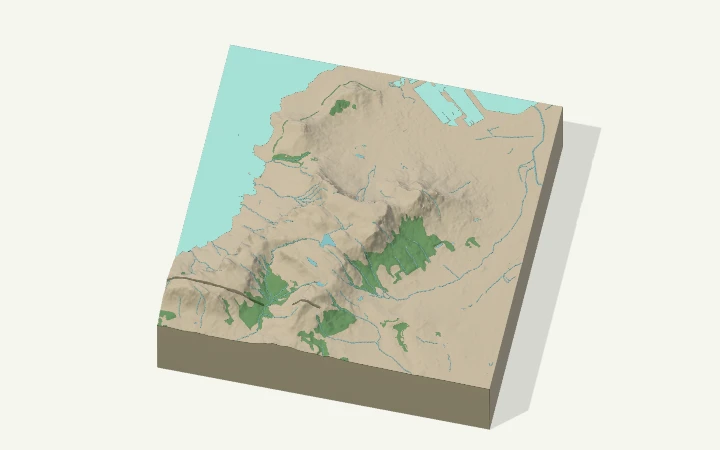
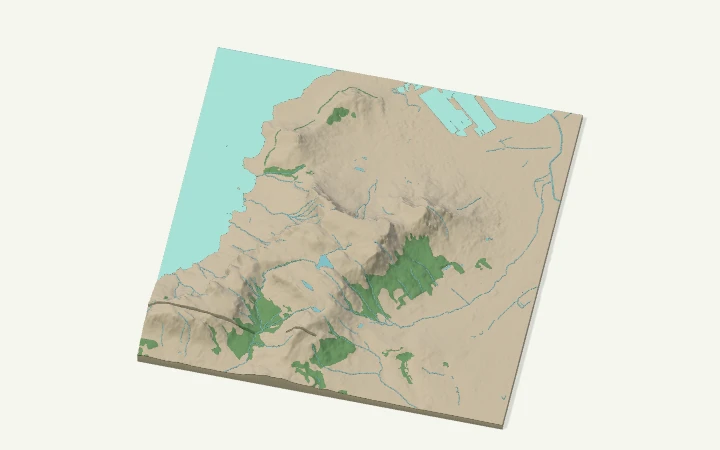
Normalitza la base del relleu costaner

Changed region(s): [[0.1833, 0.0933, 0.8556, 0.9644], [0.6417, 0.6533, 0.6722, 0.6844], [0.3972, 0.1867, 0.4278, 0.2178]]

diff --git a/src/main.js b/src/main.js
@@ -1347,7 +1347,7 @@ $('#save-project').onsubmit=event=>{
     $('#project-feedback').textContent='Projecte desat en aquest navegador.';
   }catch(error){$('#project-feedback').textContent=error.message;}
 };
-$('#release-list').innerHTML=[['0.22.40','La pantalla inicial adapta la taula, el selector i el carrusel a l’espai del panell.'],['0.22.39','Relleu pur fins a 1:500.000 també en formats quadrats i rectangulars.'],['0.22.38','Més espai entre el selector de mides i el carrusel a la pantalla inicial.'],['0.22.37','Amplada i fondària editables directament a La teva maqueta, amb els límits de mida a la vista.'],['0.22.36','El panell dret de les maquetes del catàleg mostra el lloc, el tipus i la descripció de la fitxa.'],['0.22.35','Exageració vertical, rius i vegetació de Relleu pur s’apliquen sobre el retall carregat.'],['0.22.34','Taller mòbil amb mides i exemples tàctils, visor en directe i panells inferiors d’ajustos i exportació.'],['0.22.33','El carrusel recull els 28 retalls del catàleg amb imatges estàtiques i generació directa. El motor recupera les vies ordinàries si falla la integració dels perfils suaus.'],['0.22.32','Textura forestal més discreta i regulable, vores de tessel·la corregides i cobertes obertes quan hi ha dades.'],['0.22.31','Barcelona, Girona i Cardona s’afegeixen al carrusel com a exemples de Model complet amb imatges estàtiques i generació automàtica.'],['0.22.30','Fitxes flotants, controls laterals i un retall més ampli del Cap de Creus.'],['0.22.29','Montserrat, Sant Maurici i els volcans del Croscat i Santa Margarida al carrusel.'],['0.22.28','Vegetació contínua i editable sobre el bosc en Relleu pur.'],['0.22.26','Controls de vegetació i pinzell de capçades o textura en Relleu pur.'],['0.22.25','Carrusel lent en bucle, fitxes ampliables i generació directa dels exemples.'],['0.22.24','Control de gir separat, amb indicació visible d’activat o desactivat.'],['0.22.23','Carrusel inicial amb tres exemples de Relleu pur i imatges estàtiques.'],['0.22.22','Tamariu com a punt de partida, gir suau al visor i cota del mar corregida amb el MET5.'],['0.22.21','Tria d’un a sis filaments i assignació per capa en Relleu pur.'],['0.22.20','Mars i oceans cartografiats, plans i blaus fins a la base, en Relleu pur.'],['0.22.19','Peces panoràmiques a escala sobre la taula, en dues files a partir de 61 cm.'],['0.22.18','Format panoràmic en Relleu pur i previsualització del terreny per peces.'],['0.22.17','Canvi de mida al mateix projecte, conservant el territori i els ajustos.'],['0.22.16','Retalls a la mateixa escala amb ombrejat suau i una sola mida rectangular predefinida.'],['0.22.15','Previsualització de mides i talls sobre una taula i enllaç al changelog a la capçalera.'],['0.22.14','Un sol 3MF amb diverses plaques de Bambu i ZIP de peces opcional.'],['0.22.13','Filament per peça al 3MF de Bambu Studio.'],['0.22.12','Senders més estrets i aigua continental de superfície.'],['0.22.11','Més trams amb paviment independent i secció plana fins a la vora.'],['0.22.10','Paviment independent per defecte i trams recuperats entre cruïlles.'],['0.22.9','Primera prova de paviment nou en retalls reals.'],['0.22.8','Cupó de 120 × 120 mm amb vies sinuoses, cruïlla i pont.'],['0.22.7','Cupó de túnel amb dues boques i rasant compartida amb els accessos.'],['0.22.6','Cupó de pont amb dos enllaços sense graó i una via inferior.'],['0.22.5','Rasant contínua a la corba del cupó de paviment.'],['0.22.4','Cupó de paviment amb corba i cruïlla en T sense graó.'],['0.22.3','Cupó de paviment amb secció plana, excavació i reblert.'],['0.22.2','Perfils de vies recuperats quan falten cotes fora de la maqueta.'],['0.22.1','Perfils de calçada sobre túnels verificats i amplada estimada de les autopistes de sentit únic.'],['0.22.0','Versió de consolidació dels perfils viaris, ponts i túnels.'],['0.21.9','Signatura d’ortogra.fi al peu de pàgina.'],['0.21.8','Recuperació de ponts amb fragments solapats entre tessel·les.'],['0.21.7','Recuperació de túnels estimats amb poca coberta.'],['0.21.6','Transicions de vies amb més traçat disponible quan l’enllaç inicial falla.'],['0.21.5','Mides de 10 a 50 cm i guies discontínues de tall sobre el relleu.'],['0.21.4','Unió de paviment més robusta per a vies principals i ferrocarrils.'],['0.21.3','Perfils suaus amb MET5 acotats al retall i recuperació selectiva d’unions.'],['0.21.2','Corregida la càrrega de relleu amb el MET5.'],['0.21.1','MET5 de l’ICGC com a font preferent quan cobreix el retall.'],['0.21.0','Auditoria d’exportacions de control per altura i suavitzat intermedi de vies principals i ferrocarrils.'],['0.20.1','Rasants ferroviàries suavitzades segons l’escala i accessos amb canvis de pendent més progressius.'],['0.20.0','Galeria local per desar i recuperar els ajustos i traços d’una maqueta.'],['0.19.25','Capçades còniques més altes i prova conjunta dels Rasos de Peguera i la Gallina Pelada.'],['0.19.24','Capçades automàtiques d’alta muntanya al Model complet i densitat segons la cota a Relleu pur.'],['0.19.23','Capçades arrodonides en retalls baixos i progressivament còniques en retalls d’alta muntanya.'],['0.19.22','Boscos cartografiats i capçades a escala en Relleu pur.'],['0.19.21','Aigua cartografiada fora de l’Aneto en Relleu pur i controls d’orientació del mapa ajustats.'],['0.19.20','Selector segmentat de mode i rius i rierols amb amplada mínima configurable.'],['0.19.19','Modes Paisatge complet i Relleu pur a Territori, llacs plans i més detall al Paisatge complet.'],['0.19.18','Contorns de neu i roca interpolats, cobertura de l’Aneto més fina i més resolució amb detall Equilibrat i Alt.'],['0.19.17','Relleu pur amb una malla més fina, tessel·les d’elevació més detallades i talls de peces sobre una malla comuna.'],['0.19.16','Mode Relleu pur fins a 1:100.000, amb mostra de l’Aneto i cobertura de sòl nu i neu o gel. Perfils suaus activats per defecte.'],['0.19.15','Unions viàries més ràpides, amplades segons escala i transicions més suaus als accessos.'],['0.19.14','Informe JSON de temps de generació amb retall, ajustos i durada de cada fase.'],['0.19.13','Guies de tall sobre el relleu i descàrrega de la maqueta visible quan el mapa té canvis pendents.'],['0.19.12','Progrés per fases i previsualització de relleu, vies, edificis i vegetació mentre es genera la maqueta.'],['0.19.11','Un enllaç, túnel o edifici amb geometria defectuosa pot quedar omès amb un avís mentre es genera la resta de la maqueta.'],['0.19.10','Els taulers procedimentals recuperen la continuïtat entre tessel·les i les cotes dels estreps fora del retall.'],['0.19.9','Transicions entre perfils suaus i vies sobre el terreny. Segon retall ferroviari verificat.'],['0.19.8','Perfils experimentals de vies principals i ferrocarrils. Projecte nou sobre Territori i compàs al mapa.'],['0.19.7','Catastre per blocs, amb vista provisional i avisos dels elements amb dades contradictòries.'],['0.19.6','Mides proporcionals al centre, generació des de Territori i límit d’escala d’1:20.000.'],['0.19.5','Inici guiat, exemples a Territori i escala sincronitzada amb el mapa. El retall es gira des de la cantonada.'],['0.19.4','Els ajustos de vies reutilitzen el terreny i els edificis. Es conserven els traços del pinzell i la vista.'],['0.19.3','Ajustos de vies automàtics, descàrrega ancorada amb selector de format i ferrocarrils arran de carretera per defecte.'],['0.19.2','Sis passos amb accions al costat del títol. Els traços del pinzell es conserven en canviar de retall durant la sessió. Avís quan falta espai per enllaçar un pont al límit de la maqueta.'],['0.19.1','Corregits el graó de les boques girades i els plecs dels enllaços en revolts. Controls 3MF nous i proposta navegable de flux per etapes RO-053, pendent de revisió abans d’integrar-la.'],['0.19.0','Continuïtat i amplada de la calçada revisades als enllaços amb ponts i túnels. Marc exterior retirat del menú i ajornat per a un desenvolupament posterior.'],['0.18.2','Primera optimització de les vies principals: màscares de pilars calculades només quan calen i reutilitzades. El control de 3 km passa de 189,3 a 56,6 s amb els mateixos 14 perfils. Prototip encara desactivat; controls 3MF disponibles al repositori i cas de detall baix pendent.'],['0.18.1','Túnels activats per defecte, sostre parabòlic i paviment de camí. Envolupant de vies principals preparada com a prototip, pendent d’optimitzar abans d’activar-la.'],['0.18.0','Ferrocarrils amb material propi i realç de +0,5 o +1 mm sobre els camins. Millora dels portals de túnels estimats. Nova font OSM de cobertes i parts originals, amb formes paramètriques quan hi ha dades i preservació del mode limitat pla.'],['0.17.0','Pilars adaptats a l’escala, suports auxiliars i avisos de llums. Túnels estimats amb obertures reals, en una opció experimental desactivada per defecte. Exemples automàtics, marc negre i plaques ajornades.'],['0.16.0','Ponts procedimentals a partir de la cartografia i el relleu, amb pilars i connexions. Perfils estimats entre extrems, diferenciats de les dades específiques de Rajadell. El viaducte es conserva en moure, ampliar o girar el retall.'],['0.15.1','Rajadell es conserva en retalls ampliats o desplaçats: els detalls del pont es carreguen per ubicació, també fora del botó d’exemple. Memòria cau acotada i reintent de lectures fallides. Generalització procedimental en curs.'],['0.15.0','Pilars simplificats que eviten camins i edificis, i enllaços suaus del viaducte amb la carretera. Conjunt unit abans de mostrar-lo i exportar-lo. Realç opcional dels camins de 0,5 o 1 mm de maqueta. Suports i enllaços estimats, pendents de laminat.'],['0.14.0','Primer viaducte amb superfície 3D de l’ICGC a la mostra de Manresa, separada del terreny i conservada al 3MF. Gruix simplificat, sense pilars mesurats. Llibre d’estil per a contribucions i tasques delegades. Túnel pendent de dades suficients.'],['0.13.1','Base corregida: la cota més baixa del relleu queda a 5 mm. Es conserven el desnivell, l’exageració i una referència vertical comuna a totes les capes. A la costa, el mar també queda a 5 mm.'],['0.13.0','Catastre amb consultes per quadrants i recuperació de la font anterior en fallar. Sidebars homogenis, marc coherent amb la seva exportació i sense canvis de zoom. Viaducte de l’Eix Diagonal com a mostra inicial, Tamariu al catàleg. Fletxa del nord retirada i rosa ajornada.'],['0.12.0','Vista de presentació amb taula i llum, render a demanda i retorn al taller. Fonts remotes amb resum clar i fitxers propis dins d’opcions avançades. Proves de sòlids per preparar infraestructures; ponts i coves reals pendents.'],['0.11.0','Catastre buit vàlid, pinzell amb cobertura per gest i retorn a navegació, edificis automàtics i complements independents: marc, placa educativa i fletxa del nord. Cobertes reals en estudi.'],['0.10.0','Catastre amb espera i reintent fitats, errors entenedors i model conservat en fallar. Preparació del sistema d’idiomes, només amb català disponible. Propostes de marc imprimible, etiquetes, rosa dels vents i escena realista.'],['0.9.0','Pinzell aleatori, fonts d’edificis explícites i parts del Catastre. Edificis actualitzats sense reconstruir terreny, i primeres cobertes amb atributs de la font.'],['0.8.0','Vegetació repartida per tota la zona verda, pinzell amb prioritat al límit, densitat per traç i exportació sense selectors de broquet ni tipus de filament. Estudi de parts d’edificis, cobertes, ponts i túnels.'],['0.7.0','Sidebars reorganitzats, escala en un sol camp, orientació al mapa, arbres proporcionats a l’escala i límits de càrrega coherents. Historial de tasques validades separat.'],['0.6.0','Menús sempre visibles amb scroll intern, estadístiques al sidebar, V4V i favicon, transicions, marc visual, retall girat, opcions de filament/broquet i importació local GeoTIFF/GeoJSON.'],['0.5.0','Apartats replegables, controls dins del preview i selecció per escala horitzontal fixa. Diagnòstic dels blocs d’edificis de Tamariu.'],['0.4.2','Lectura numèrica directa del relleu WebP/PNG, sense canvas, i diagnòstics de les tessel·les per investigar els pics intermitents.'],['0.4.1','Cobertes horitzontals: el límit d’altura es mesura sobre el punt més alt del terreny dins de la petjada.'],['0.4.0','Camins amb unions arrodonides, edificis limitats a 5 m per defecte o sense volum, i pinzell amb indicador de treball i un càlcul per traç.'],['0.3.0','Mapa i cerca de llocs, layout d’escriptori estable, 1–8 materials, vegetació editable i exportació en peces.'],['0.2.0','Edificis ICGC, relleu corregit, capçades variades i exportació per a Bambu Studio.'],['0.1.0','Primera maqueta de Tamariu generada al navegador amb costa vectorial i exportació 3D.']].map(([v,text])=>`<article class="release-entry"><div><strong>v${v}</strong><time>${['0.22.40','0.22.39','0.22.38','0.22.37','0.22.36','0.22.35','0.22.34','0.22.33'].includes(v)?'05/11/2026':['0.22.32','0.22.31','0.22.30','0.22.29','0.22.28','0.22.26','0.22.25','0.22.24','0.22.23','0.22.22','0.22.21','0.22.20','0.22.19','0.22.18','0.22.17','0.22.16','0.22.15','0.22.14','0.22.13','0.22.12','0.22.11','0.22.10','0.22.9','0.22.8','0.22.7','0.22.6','0.22.5','0.22.4','0.22.3','0.22.2','0.22.1','0.22.0','0.21.9','0.21.8','0.21.7','0.21.6','0.21.5'].includes(v)?'04/11/2026':['0.21.4','0.21.3','0.21.2','0.21.1','0.21.0','0.20.1','0.20.0','0.19.25','0.19.24','0.19.23','0.19.22','0.19.21','0.19.20','0.19.19','0.19.18','0.19.17','0.19.16','0.19.15','0.19.14','0.19.13','0.19.12','0.19.11','0.19.10','0.19.9','0.19.8','0.19.7','0.19.6','0.19.5','0.19.4','0.19.3','0.19.2'].includes(v)?'03/11/2026':['0.19.1','0.19.0','0.18.2','0.18.1','0.18.0','0.17.0','0.16.0','0.15.1','0.15.0','0.14.0','0.13.1','0.13.0','0.12.0','0.11.0'].includes(v)?'02/11/2026':v==='0.1.0'?'31/10/2026':'01/11/2026'}</time></div><p>${text}</p></article>`).join('');
+$('#release-list').innerHTML=[['0.22.41','El mar i el punt més baix dels retalls interiors queden a 5 mm de la base en Relleu pur.'],['0.22.40','La pantalla inicial adapta la taula, el selector i el carrusel a l’espai del panell.'],['0.22.39','Relleu pur fins a 1:500.000 també en formats quadrats i rectangulars.'],['0.22.38','Més espai entre el selector de mides i el carrusel a la pantalla inicial.'],['0.22.37','Amplada i fondària editables directament a La teva maqueta, amb els límits de mida a la vista.'],['0.22.36','El panell dret de les maquetes del catàleg mostra el lloc, el tipus i la descripció de la fitxa.'],['0.22.35','Exageració vertical, rius i vegetació de Relleu pur s’apliquen sobre el retall carregat.'],['0.22.34','Taller mòbil amb mides i exemples tàctils, visor en directe i panells inferiors d’ajustos i exportació.'],['0.22.33','El carrusel recull els 28 retalls del catàleg amb imatges estàtiques i generació directa. El motor recupera les vies ordinàries si falla la integració dels perfils suaus.'],['0.22.32','Textura forestal més discreta i regulable, vores de tessel·la corregides i cobertes obertes quan hi ha dades.'],['0.22.31','Barcelona, Girona i Cardona s’afegeixen al carrusel com a exemples de Model complet amb imatges estàtiques i generació automàtica.'],['0.22.30','Fitxes flotants, controls laterals i un retall més ampli del Cap de Creus.'],['0.22.29','Montserrat, Sant Maurici i els volcans del Croscat i Santa Margarida al carrusel.'],['0.22.28','Vegetació contínua i editable sobre el bosc en Relleu pur.'],['0.22.26','Controls de vegetació i pinzell de capçades o textura en Relleu pur.'],['0.22.25','Carrusel lent en bucle, fitxes ampliables i generació directa dels exemples.'],['0.22.24','Control de gir separat, amb indicació visible d’activat o desactivat.'],['0.22.23','Carrusel inicial amb tres exemples de Relleu pur i imatges estàtiques.'],['0.22.22','Tamariu com a punt de partida, gir suau al visor i cota del mar corregida amb el MET5.'],['0.22.21','Tria d’un a sis filaments i assignació per capa en Relleu pur.'],['0.22.20','Mars i oceans cartografiats, plans i blaus fins a la base, en Relleu pur.'],['0.22.19','Peces panoràmiques a escala sobre la taula, en dues files a partir de 61 cm.'],['0.22.18','Format panoràmic en Relleu pur i previsualització del terreny per peces.'],['0.22.17','Canvi de mida al mateix projecte, conservant el territori i els ajustos.'],['0.22.16','Retalls a la mateixa escala amb ombrejat suau i una sola mida rectangular predefinida.'],['0.22.15','Previsualització de mides i talls sobre una taula i enllaç al changelog a la capçalera.'],['0.22.14','Un sol 3MF amb diverses plaques de Bambu i ZIP de peces opcional.'],['0.22.13','Filament per peça al 3MF de Bambu Studio.'],['0.22.12','Senders més estrets i aigua continental de superfície.'],['0.22.11','Més trams amb paviment independent i secció plana fins a la vora.'],['0.22.10','Paviment independent per defecte i trams recuperats entre cruïlles.'],['0.22.9','Primera prova de paviment nou en retalls reals.'],['0.22.8','Cupó de 120 × 120 mm amb vies sinuoses, cruïlla i pont.'],['0.22.7','Cupó de túnel amb dues boques i rasant compartida amb els accessos.'],['0.22.6','Cupó de pont amb dos enllaços sense graó i una via inferior.'],['0.22.5','Rasant contínua a la corba del cupó de paviment.'],['0.22.4','Cupó de paviment amb corba i cruïlla en T sense graó.'],['0.22.3','Cupó de paviment amb secció plana, excavació i reblert.'],['0.22.2','Perfils de vies recuperats quan falten cotes fora de la maqueta.'],['0.22.1','Perfils de calçada sobre túnels verificats i amplada estimada de les autopistes de sentit únic.'],['0.22.0','Versió de consolidació dels perfils viaris, ponts i túnels.'],['0.21.9','Signatura d’ortogra.fi al peu de pàgina.'],['0.21.8','Recuperació de ponts amb fragments solapats entre tessel·les.'],['0.21.7','Recuperació de túnels estimats amb poca coberta.'],['0.21.6','Transicions de vies amb més traçat disponible quan l’enllaç inicial falla.'],['0.21.5','Mides de 10 a 50 cm i guies discontínues de tall sobre el relleu.'],['0.21.4','Unió de paviment més robusta per a vies principals i ferrocarrils.'],['0.21.3','Perfils suaus amb MET5 acotats al retall i recuperació selectiva d’unions.'],['0.21.2','Corregida la càrrega de relleu amb el MET5.'],['0.21.1','MET5 de l’ICGC com a font preferent quan cobreix el retall.'],['0.21.0','Auditoria d’exportacions de control per altura i suavitzat intermedi de vies principals i ferrocarrils.'],['0.20.1','Rasants ferroviàries suavitzades segons l’escala i accessos amb canvis de pendent més progressius.'],['0.20.0','Galeria local per desar i recuperar els ajustos i traços d’una maqueta.'],['0.19.25','Capçades còniques més altes i prova conjunta dels Rasos de Peguera i la Gallina Pelada.'],['0.19.24','Capçades automàtiques d’alta muntanya al Model complet i densitat segons la cota a Relleu pur.'],['0.19.23','Capçades arrodonides en retalls baixos i progressivament còniques en retalls d’alta muntanya.'],['0.19.22','Boscos cartografiats i capçades a escala en Relleu pur.'],['0.19.21','Aigua cartografiada fora de l’Aneto en Relleu pur i controls d’orientació del mapa ajustats.'],['0.19.20','Selector segmentat de mode i rius i rierols amb amplada mínima configurable.'],['0.19.19','Modes Paisatge complet i Relleu pur a Territori, llacs plans i més detall al Paisatge complet.'],['0.19.18','Contorns de neu i roca interpolats, cobertura de l’Aneto més fina i més resolució amb detall Equilibrat i Alt.'],['0.19.17','Relleu pur amb una malla més fina, tessel·les d’elevació més detallades i talls de peces sobre una malla comuna.'],['0.19.16','Mode Relleu pur fins a 1:100.000, amb mostra de l’Aneto i cobertura de sòl nu i neu o gel. Perfils suaus activats per defecte.'],['0.19.15','Unions viàries més ràpides, amplades segons escala i transicions més suaus als accessos.'],['0.19.14','Informe JSON de temps de generació amb retall, ajustos i durada de cada fase.'],['0.19.13','Guies de tall sobre el relleu i descàrrega de la maqueta visible quan el mapa té canvis pendents.'],['0.19.12','Progrés per fases i previsualització de relleu, vies, edificis i vegetació mentre es genera la maqueta.'],['0.19.11','Un enllaç, túnel o edifici amb geometria defectuosa pot quedar omès amb un avís mentre es genera la resta de la maqueta.'],['0.19.10','Els taulers procedimentals recuperen la continuïtat entre tessel·les i les cotes dels estreps fora del retall.'],['0.19.9','Transicions entre perfils suaus i vies sobre el terreny. Segon retall ferroviari verificat.'],['0.19.8','Perfils experimentals de vies principals i ferrocarrils. Projecte nou sobre Territori i compàs al mapa.'],['0.19.7','Catastre per blocs, amb vista provisional i avisos dels elements amb dades contradictòries.'],['0.19.6','Mides proporcionals al centre, generació des de Territori i límit d’escala d’1:20.000.'],['0.19.5','Inici guiat, exemples a Territori i escala sincronitzada amb el mapa. El retall es gira des de la cantonada.'],['0.19.4','Els ajustos de vies reutilitzen el terreny i els edificis. Es conserven els traços del pinzell i la vista.'],['0.19.3','Ajustos de vies automàtics, descàrrega ancorada amb selector de format i ferrocarrils arran de carretera per defecte.'],['0.19.2','Sis passos amb accions al costat del títol. Els traços del pinzell es conserven en canviar de retall durant la sessió. Avís quan falta espai per enllaçar un pont al límit de la maqueta.'],['0.19.1','Corregits el graó de les boques girades i els plecs dels enllaços en revolts. Controls 3MF nous i proposta navegable de flux per etapes RO-053, pendent de revisió abans d’integrar-la.'],['0.19.0','Continuïtat i amplada de la calçada revisades als enllaços amb ponts i túnels. Marc exterior retirat del menú i ajornat per a un desenvolupament posterior.'],['0.18.2','Primera optimització de les vies principals: màscares de pilars calculades només quan calen i reutilitzades. El control de 3 km passa de 189,3 a 56,6 s amb els mateixos 14 perfils. Prototip encara desactivat; controls 3MF disponibles al repositori i cas de detall baix pendent.'],['0.18.1','Túnels activats per defecte, sostre parabòlic i paviment de camí. Envolupant de vies principals preparada com a prototip, pendent d’optimitzar abans d’activar-la.'],['0.18.0','Ferrocarrils amb material propi i realç de +0,5 o +1 mm sobre els camins. Millora dels portals de túnels estimats. Nova font OSM de cobertes i parts originals, amb formes paramètriques quan hi ha dades i preservació del mode limitat pla.'],['0.17.0','Pilars adaptats a l’escala, suports auxiliars i avisos de llums. Túnels estimats amb obertures reals, en una opció experimental desactivada per defecte. Exemples automàtics, marc negre i plaques ajornades.'],['0.16.0','Ponts procedimentals a partir de la cartografia i el relleu, amb pilars i connexions. Perfils estimats entre extrems, diferenciats de les dades específiques de Rajadell. El viaducte es conserva en moure, ampliar o girar el retall.'],['0.15.1','Rajadell es conserva en retalls ampliats o desplaçats: els detalls del pont es carreguen per ubicació, també fora del botó d’exemple. Memòria cau acotada i reintent de lectures fallides. Generalització procedimental en curs.'],['0.15.0','Pilars simplificats que eviten camins i edificis, i enllaços suaus del viaducte amb la carretera. Conjunt unit abans de mostrar-lo i exportar-lo. Realç opcional dels camins de 0,5 o 1 mm de maqueta. Suports i enllaços estimats, pendents de laminat.'],['0.14.0','Primer viaducte amb superfície 3D de l’ICGC a la mostra de Manresa, separada del terreny i conservada al 3MF. Gruix simplificat, sense pilars mesurats. Llibre d’estil per a contribucions i tasques delegades. Túnel pendent de dades suficients.'],['0.13.1','Base corregida: la cota més baixa del relleu queda a 5 mm. Es conserven el desnivell, l’exageració i una referència vertical comuna a totes les capes. A la costa, el mar també queda a 5 mm.'],['0.13.0','Catastre amb consultes per quadrants i recuperació de la font anterior en fallar. Sidebars homogenis, marc coherent amb la seva exportació i sense canvis de zoom. Viaducte de l’Eix Diagonal com a mostra inicial, Tamariu al catàleg. Fletxa del nord retirada i rosa ajornada.'],['0.12.0','Vista de presentació amb taula i llum, render a demanda i retorn al taller. Fonts remotes amb resum clar i fitxers propis dins d’opcions avançades. Proves de sòlids per preparar infraestructures; ponts i coves reals pendents.'],['0.11.0','Catastre buit vàlid, pinzell amb cobertura per gest i retorn a navegació, edificis automàtics i complements independents: marc, placa educativa i fletxa del nord. Cobertes reals en estudi.'],['0.10.0','Catastre amb espera i reintent fitats, errors entenedors i model conservat en fallar. Preparació del sistema d’idiomes, només amb català disponible. Propostes de marc imprimible, etiquetes, rosa dels vents i escena realista.'],['0.9.0','Pinzell aleatori, fonts d’edificis explícites i parts del Catastre. Edificis actualitzats sense reconstruir terreny, i primeres cobertes amb atributs de la font.'],['0.8.0','Vegetació repartida per tota la zona verda, pinzell amb prioritat al límit, densitat per traç i exportació sense selectors de broquet ni tipus de filament. Estudi de parts d’edificis, cobertes, ponts i túnels.'],['0.7.0','Sidebars reorganitzats, escala en un sol camp, orientació al mapa, arbres proporcionats a l’escala i límits de càrrega coherents. Historial de tasques validades separat.'],['0.6.0','Menús sempre visibles amb scroll intern, estadístiques al sidebar, V4V i favicon, transicions, marc visual, retall girat, opcions de filament/broquet i importació local GeoTIFF/GeoJSON.'],['0.5.0','Apartats replegables, controls dins del preview i selecció per escala horitzontal fixa. Diagnòstic dels blocs d’edificis de Tamariu.'],['0.4.2','Lectura numèrica directa del relleu WebP/PNG, sense canvas, i diagnòstics de les tessel·les per investigar els pics intermitents.'],['0.4.1','Cobertes horitzontals: el límit d’altura es mesura sobre el punt més alt del terreny dins de la petjada.'],['0.4.0','Camins amb unions arrodonides, edificis limitats a 5 m per defecte o sense volum, i pinzell amb indicador de treball i un càlcul per traç.'],['0.3.0','Mapa i cerca de llocs, layout d’escriptori estable, 1–8 materials, vegetació editable i exportació en peces.'],['0.2.0','Edificis ICGC, relleu corregit, capçades variades i exportació per a Bambu Studio.'],['0.1.0','Primera maqueta de Tamariu generada al navegador amb costa vectorial i exportació 3D.']].map(([v,text])=>`<article class="release-entry"><div><strong>v${v}</strong><time>${['0.22.41','0.22.40','0.22.39','0.22.38','0.22.37','0.22.36','0.22.35','0.22.34','0.22.33'].includes(v)?'05/11/2026':['0.22.32','0.22.31','0.22.30','0.22.29','0.22.28','0.22.26','0.22.25','0.22.24','0.22.23','0.22.22','0.22.21','0.22.20','0.22.19','0.22.18','0.22.17','0.22.16','0.22.15','0.22.14','0.22.13','0.22.12','0.22.11','0.22.10','0.22.9','0.22.8','0.22.7','0.22.6','0.22.5','0.22.4','0.22.3','0.22.2','0.22.1','0.22.0','0.21.9','0.21.8','0.21.7','0.21.6','0.21.5'].includes(v)?'04/11/2026':['0.21.4','0.21.3','0.21.2','0.21.1','0.21.0','0.20.1','0.20.0','0.19.25','0.19.24','0.19.23','0.19.22','0.19.21','0.19.20','0.19.19','0.19.18','0.19.17','0.19.16','0.19.15','0.19.14','0.19.13','0.19.12','0.19.11','0.19.10','0.19.9','0.19.8','0.19.7','0.19.6','0.19.5','0.19.4','0.19.3','0.19.2'].includes(v)?'03/11/2026':['0.19.1','0.19.0','0.18.2','0.18.1','0.18.0','0.17.0','0.16.0','0.15.1','0.15.0','0.14.0','0.13.1','0.13.0','0.12.0','0.11.0'].includes(v)?'02/11/2026':v==='0.1.0'?'31/10/2026':'01/11/2026'}</time></div><p>${text}</p></article>`).join('');
 $('#copy-lightning').onclick=async()=>{try{await navigator.clipboard.writeText('aptswim903@walletofsatoshi.com');$('#copy-status').textContent='Adreça copiada';}catch{$('#copy-status').textContent='Selecciona i copia l’adreça.';}};
 for(const toggle of document.querySelectorAll('.sidebar-left .section-toggle'))toggle.disabled=true;
 legend();tiling();buildingControls();scaleHint();

diff --git a/src/geometry.js b/src/geometry.js
@@ -561,26 +561,30 @@ function buildPureRelief(data,options,progress,preview){
   const oceanWeights=ocean?.cells?ocean.weights:null;
   progress('Calculant el camp d’altures…');
   const gridPoint=(x,y)=>[x*width/columns,y*height/rows];
-  const heightAt=(x,y)=>sample(...unproject(gridPoint(x,y)));
+  const heightAt=point=>{
+    const z=sample(...unproject(point));
+    return oceanWeights?Math.max(0,z):z;
+  };
   const metres=new Float64Array(stride*(rows+1));
-  let originMeters=Infinity;
   for(let row=0;row<=rows;row++){
     for(let col=0;col<=columns;col++){
       const index=row*stride+col;
-      const z=oceanWeights?.[index]>0?0:heightAt(col,row);
-      metres[index]=z;
-      originMeters=Math.min(originMeters,z);
+      metres[index]=oceanWeights?.[index]>0?0:heightAt(gridPoint(col,row));
     }
     if(row%32===31||row===rows)preview?.stage('terrain','Calculant el camp d’altures…',row+1,rows+1);
   }
   const lakes=data.lakes?.length?levelReliefLakes(data.lakes,project,metres,columns,width,height,rows):null;
-  if(oceanWeights&&lakes?.count)for(let i=0;i<metres.length;i++){
-    if(oceanWeights[i]>0)metres[i]=0;
+  let originMeters=0;
+  if(oceanWeights){
+    if(lakes?.count)for(let i=0;i<metres.length;i++)if(oceanWeights[i]>0)metres[i]=0;
+  }else{
+    originMeters=Infinity;
+    for(const z of metres)originMeters=Math.min(originMeters,z);
   }
   progress('Ajustant la malla al relleu…');
   const diagonals=reliefDiagonals(metres,columns,(col,row)=>{
     const point=gridPoint(col+.5,row+.5);
-    return oceanWeights&&ocean.contains(point)?0:sample(...unproject(point));
+    return oceanWeights&&ocean.contains(point)?0:heightAt(point);
   },rows);
   const reliefGrid=scaleReliefGrid({resolution:columns,rows,width,height,diagonals,originMeters,oceanWeights},metres,scale,exaggeration);
   if(preview){
@@ -621,7 +625,7 @@ function buildPureRelief(data,options,progress,preview){
   Object.assign(reliefGrid,{scores,lakeWeights:lakes?.count?lakes.weights:null,
     forestWeights:forest?.cells?forest.weights:null,streamStrips:water.streamStrips});
   const verticalReference={originMeters,minimumSurfaceMM:5,seaLevelMM:reliefGrid.seaLevelMM,
-    method:oceanWeights?'lowest generated-terrain sample at 5 mm; mapped sea at zero metres; no bathymetry':'lowest generated-terrain sample at 5 mm'};
+    method:oceanWeights?'sea level at 5 mm; no bathymetry':'lowest generated-terrain sample at 5 mm'};
   const provenance={...data.meta,options:{...options,pureRelief:true,exaggeration,streams,streamWidth,trees:options.trees!==false},verticalExaggeration:exaggeration,verticalReference,
     units:'millimeters',reliefSampling:{columns,rows,stepMM:[width/columns,height/rows]},
     coverageCells:{bare:cells[0],snow:cells[1],total:columns*rows},lakeCount:lakes?.count??0,
@@ -633,7 +637,7 @@ function buildPureRelief(data,options,progress,preview){
 function scaleReliefGrid(grid,metres,scale,exaggeration){
   const {originMeters,oceanWeights}=grid;
   const heights=metres.map(z=>5+(z-originMeters)*scale*exaggeration);
-  const seaLevelMM=oceanWeights?5-originMeters*scale*exaggeration:null;
+  const seaLevelMM=oceanWeights?5:null;
   return {...grid,heights,seaLevelMM,exaggeration};
 }
 

diff --git a/tests/pure-relief.test.js b/tests/pure-relief.test.js
@@ -15,6 +15,17 @@ const bbox=physicalBBox([0,0],10,10);
 const dem=[{z:0,x:0,y:0,size:2,elev:new Float32Array([100,200,500,650])}];
 const options={size:100,pureRelief:true,resolution:12};
 
+function rasterFixture(rows){
+  const [w,s,e,n]=bbox,width=rows[0].length,height=rows.length;
+  return {epsg:4326,width,height,values:Float32Array.from(rows.flat()),
+    affine:[(e-w)/(width-1),0,w,0,(n-s)/(height-1),s]};
+}
+
+function mappedRectangle(x0,y0,x1,y1){
+  const [w,s,e,n]=bbox,at=(x,y)=>[w+(e-w)*x,s+(n-s)*y];
+  return {geometry:{type:'Polygon',coordinates:[[at(x0,y0),at(x1,y0),at(x1,y1),at(x0,y1),at(x0,y0)]]}};
+}
+
 test('nearly coincident stream buffers merge at the Montserrat confluence',()=>{
   const bounds=[200,120];
   const west=[[-17.48582,11.88459],[-14.69937,16.1192],[-10.3768,20.44303],[-5.28617,20.85396],
@@ -35,6 +46,38 @@ test('pure relief builds solid coverage colours from mapped classes, independent
   assert.deepEqual(groupMaterials(model).parts.map(p=>p.color),model.categories.map(p=>p.color));
   const neutral=buildModel({meta:{bbox},dem},options);
   assert.deepEqual(neutral.categories.map(p=>p.id),['terrain']);
+});
+
+test('mapped sea remains 5 mm deep despite bathymetry beyond its footprint',()=>{
+  const row=[-2500,-2500,-2500,60,120];
+  const terrainRaster=rasterFixture([row,row,row]);
+  const model=buildModel({meta:{bbox},terrainRaster,oceans:[mappedRectangle(0,0,.22,1)]},options);
+  const raised=updatePureRelief(model,{exaggeration:3});
+  for(const relief of [model,raised]){
+    const {originMeters,seaLevelMM}=relief.provenance.verticalReference;
+    assert.equal(originMeters,0);
+    assert.equal(seaLevelMM,5);
+    assert.equal(Math.min(...relief.reliefGrid.heights),5);
+    const water=auditPart(relief.parts.find(part=>part.id==='water'));
+    assert.deepEqual(water.errors,[]);
+    assert.equal(water.bbox.min[2],0);
+    assert.equal(water.bbox.max[2],5);
+  }
+  assert(Math.abs(Math.max(...model.reliefVegetationContext.metres)-120)<1e-8);
+  assert(Math.max(...raised.reliefGrid.heights)>Math.max(...model.reliefGrid.heights));
+});
+
+test('an inland base uses the lowest remaining elevation after a lake is levelled',()=>{
+  const flat=[100,100,100,100,100];
+  const terrainRaster=rasterFixture([[-120,100,100,100,100],flat,[100,100,-400,100,100],flat,flat]);
+  const data={meta:{bbox},terrainRaster},settings={...options,resolution:16};
+  const unlevelled=buildModel(data,settings);
+  const model=buildModel({...data,lakes:[mappedRectangle(.22,.22,.78,.78)]},settings);
+  assert.equal(unlevelled.provenance.verticalReference.originMeters,-400);
+  assert.equal(model.provenance.lakeCount,1);
+  assert.equal(model.provenance.verticalReference.originMeters,-120);
+  assert.equal(model.provenance.verticalReference.seaLevelMM,null);
+  assert.equal(Math.min(...model.reliefGrid.heights),5);
 });
 
 test('pure relief survives missing remote hydrography without loading full model layers',async()=>{

diff --git a/index.html b/index.html
@@ -200,7 +200,7 @@
       <path d="m27 9 7-6" stroke="var(--umbrella-accent)" stroke-width="4.5"/>
     </svg><span>ortogra<span class="umbrella-dot">.</span>fi</span>
   </a></p>
-  <div><a href="https://github.com/aaronFortuno/relleu-obert" target="_blank" rel="noreferrer"><svg class="repo-icon" viewBox="0 0 16 16" aria-hidden="true" focusable="false"><path d="M1 8h4m6 0h4"/><circle cx="8" cy="8" r="3"/></svg>Codi obert</a><a href="https://github.com/aaronFortuno/relleu-obert/blob/main/LICENSE" target="_blank" rel="noreferrer">MIT</a><button id="version-open" class="version-button" aria-label="Historial de versions">v0.22.40</button><button data-open="about-dialog" class="v4v-button" aria-label="Sobre el projecte · V4V"><span class="desktop-copy">♡ Sobre el projecte · V4V</span><span class="mobile-copy">V4V</span></button></div>
+  <div><a href="https://github.com/aaronFortuno/relleu-obert" target="_blank" rel="noreferrer"><svg class="repo-icon" viewBox="0 0 16 16" aria-hidden="true" focusable="false"><path d="M1 8h4m6 0h4"/><circle cx="8" cy="8" r="3"/></svg>Codi obert</a><a href="https://github.com/aaronFortuno/relleu-obert/blob/main/LICENSE" target="_blank" rel="noreferrer">MIT</a><button id="version-open" class="version-button" aria-label="Historial de versions">v0.22.41</button><button data-open="about-dialog" class="v4v-button" aria-label="Sobre el projecte · V4V"><span class="desktop-copy">♡ Sobre el projecte · V4V</span><span class="mobile-copy">V4V</span></button></div>
 </footer>
 
 <dialog id="projects-dialog" aria-labelledby="projects-title">

diff --git a/work/BACKLOG.md b/work/BACKLOG.md
@@ -1,6 +1,6 @@
 # Backlog actiu de Relleu Obert
 
-Actualitzat el **2026-11-05 · v0.22.40**. Pantalla inicial adaptable a l’espai del panell. [Historial](HISTORIAL.md).
+Actualitzat el **2026-11-05 · v0.22.41**. Referència de base corregida a Relleu pur. [Historial](HISTORIAL.md).
 
 ## Ordre de treball
 
@@ -139,7 +139,7 @@ Validar a l’escriptori la coherència dels controls i el desplaçament intern 
 
 ### RO-046 — Catàleg de llocs recomanats
 
-El carrusel incorpora els 28 retalls del [catàleg](RO-046-CATALEG.md), amb 17 fitxes de Relleu pur i 11 de Model complet. L’ordre es barreja en cada càrrega i reparteix els modes al llarg del bucle. A la pantalla inicial, la taula, les columnes del selector i el carrusel s’ajusten a l’espai real del panell. «La teva maqueta» mostra el resum de la fitxa mentre el visor mostra el model corresponent. Queda revisar l’enquadrament, la llegibilitat i els temps de generació en ús.
+El carrusel incorpora els 28 retalls del [catàleg](RO-046-CATALEG.md), amb 17 fitxes de Relleu pur i 11 de Model complet. L’ordre es barreja en cada càrrega i reparteix els modes al llarg del bucle. A la pantalla inicial, la taula, les columnes del selector i el carrusel s’ajusten a l’espai real del panell. «La teva maqueta» mostra el resum de la fitxa mentre el visor mostra el model corresponent. Queda revisar l’enquadrament, la llegibilitat i els temps de generació en ús, i comprovar el gruix de la base a les fitxes costaneres.
 
 ### RO-047 — Precàrrega opcional de fonts alternatives
 
@@ -172,6 +172,8 @@ Validar la recuperació d’un projecte girat amb traços i materials als dos mo
 ### RO-055 — Mode de relleu pur
 
 Les peces normals abasten d’1:10.000 a 1:500.000. Els retalls amplis fan servir el pressupost de dades del panoràmic segons l’extensió geogràfica. [Mesures i fonts](RO-055-RELLEU-PUR.md)
+
+El mar cartografiat queda a 5 mm de la base, també en canviar l’exageració. A l’interior es pren el mínim un cop anivellats els llacs.
 
 L’exageració vertical, els rius i la textura de vegetació s’apliquen automàticament sobre la maqueta carregada i mantenen la càmera. El canvi de detall, de mida o de retall es confirma amb «Genera el model».
 

diff --git a/work/HISTORIAL.md b/work/HISTORIAL.md
@@ -2,6 +2,12 @@
 
 Actualitzat: 2026-11-05. Les entrades validades surten del [backlog actiu](BACKLOG.md), mantenint identificadors i evidència. Una incidència nova es pot reobrir sense renumerar-la.
 
+## v0.22.41 — Referència de base de Relleu pur
+
+RO-046 i RO-055. Els retalls amb mar cartografiat fixen la cota 0 a 5 mm de la base i limiten les mostres negatives a la cota marina. El sòlid blau conserva el gruix en variar l’exageració. A l’interior, la cota inferior es calcula després d’anivellar els llacs i admet elevacions negatives.
+
+Amb el mateix retall de 24 × 24 cm a 1:50.000, detall alt i exageració ×1,5, Table Mountain passa de 53,5 a 5 mm fins al mar i de 85,9 a 37,4 mm d’alçada màxima del terreny. Santorini passa de 6,1 a 5 mm al nivell del mar. Geirangerfjord i les Bardenas Reales conserven els 5 mm. La miniatura de Table Mountain s’ha refet amb el model corregit al visor. Han passat 58 proves locals, incloses la cota del mar amb exageració en directe, el mínim interior després d’anivellar un llac i l’exportació 3MF.
+
 ## v0.22.40 — Pantalla inicial adaptable
 
 RO-046 adapta l’alçada de la taula i de les miniatures a l’espai central. Els controls passen sota la taula quan el panell fa 452 px o menys. El carrusel passa a una fitxa sencera quan el rail fa 380 px o menys. En finestres baixes i prou amples, la graella del selector aprofita una tercera columna.

diff --git a/CHANGELOG.md b/CHANGELOG.md
@@ -1,5 +1,9 @@
 # Canvis
 
+## v0.22.41 — 2026-11-05
+
+- Relleu pur fixa el nivell del mar a 5 mm de la base als retalls amb mar cartografiat. Als retalls interiors, situa a 5 mm el punt més baix un cop anivellats els llacs.
+
 ## v0.22.40 — 2026-11-05
 
 - La pantalla inicial ajusta la taula, la graella de mides i les miniatures a l’espai del panell. En panells estrets, els controls passen sota la taula i el carrusel mostra una fitxa sencera.
